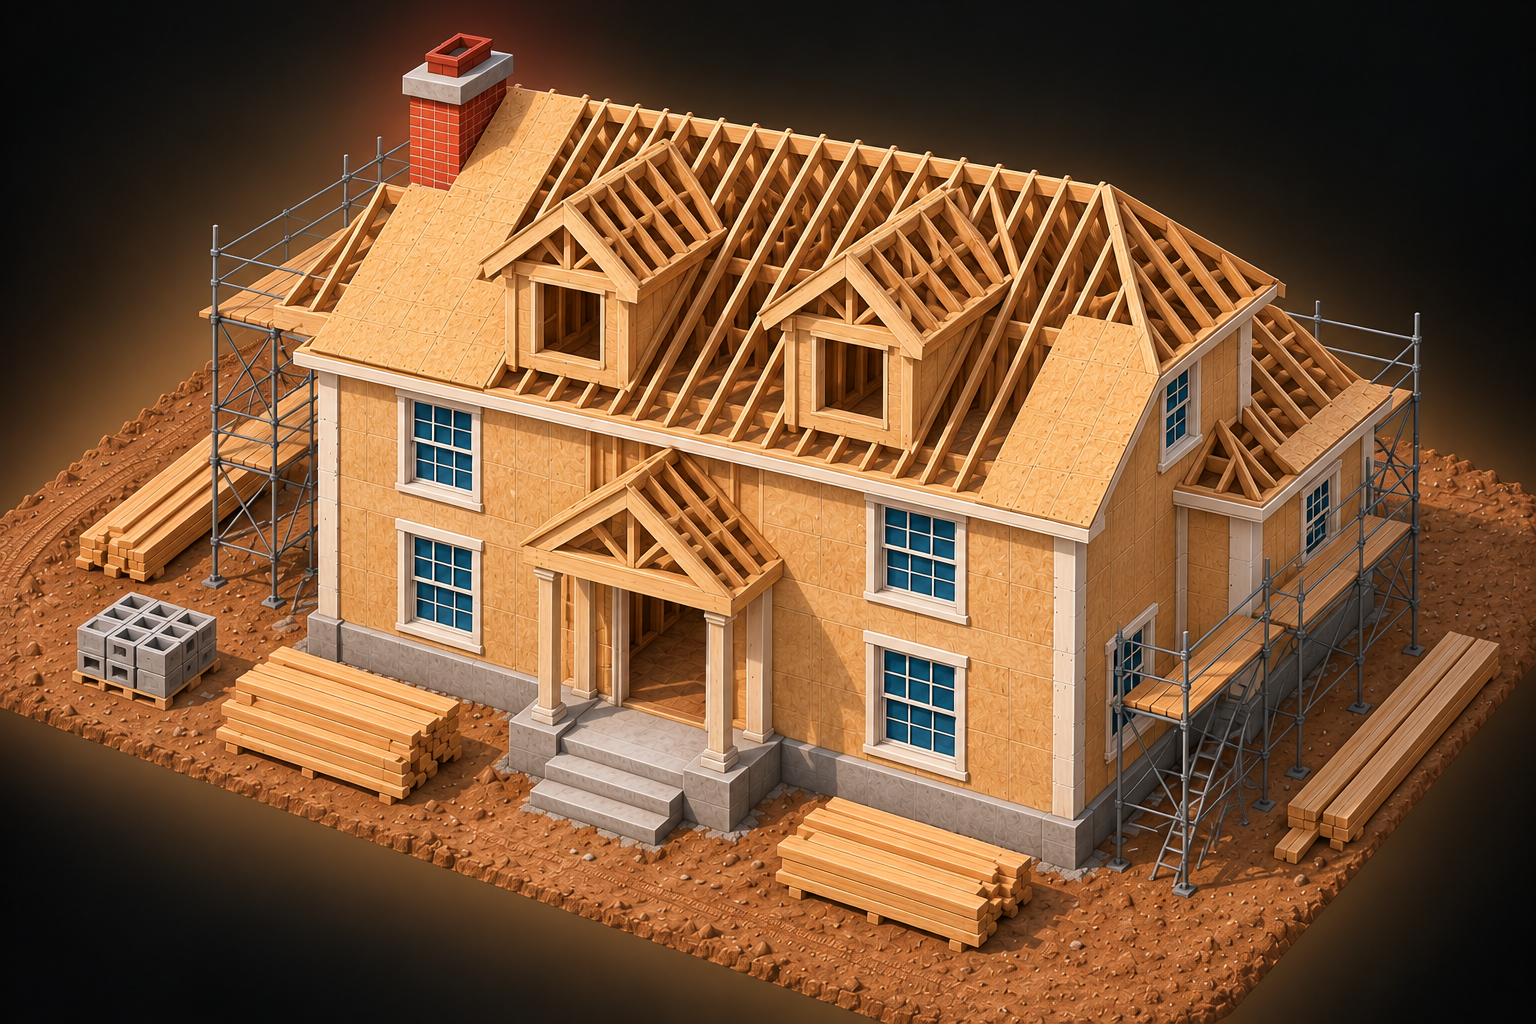
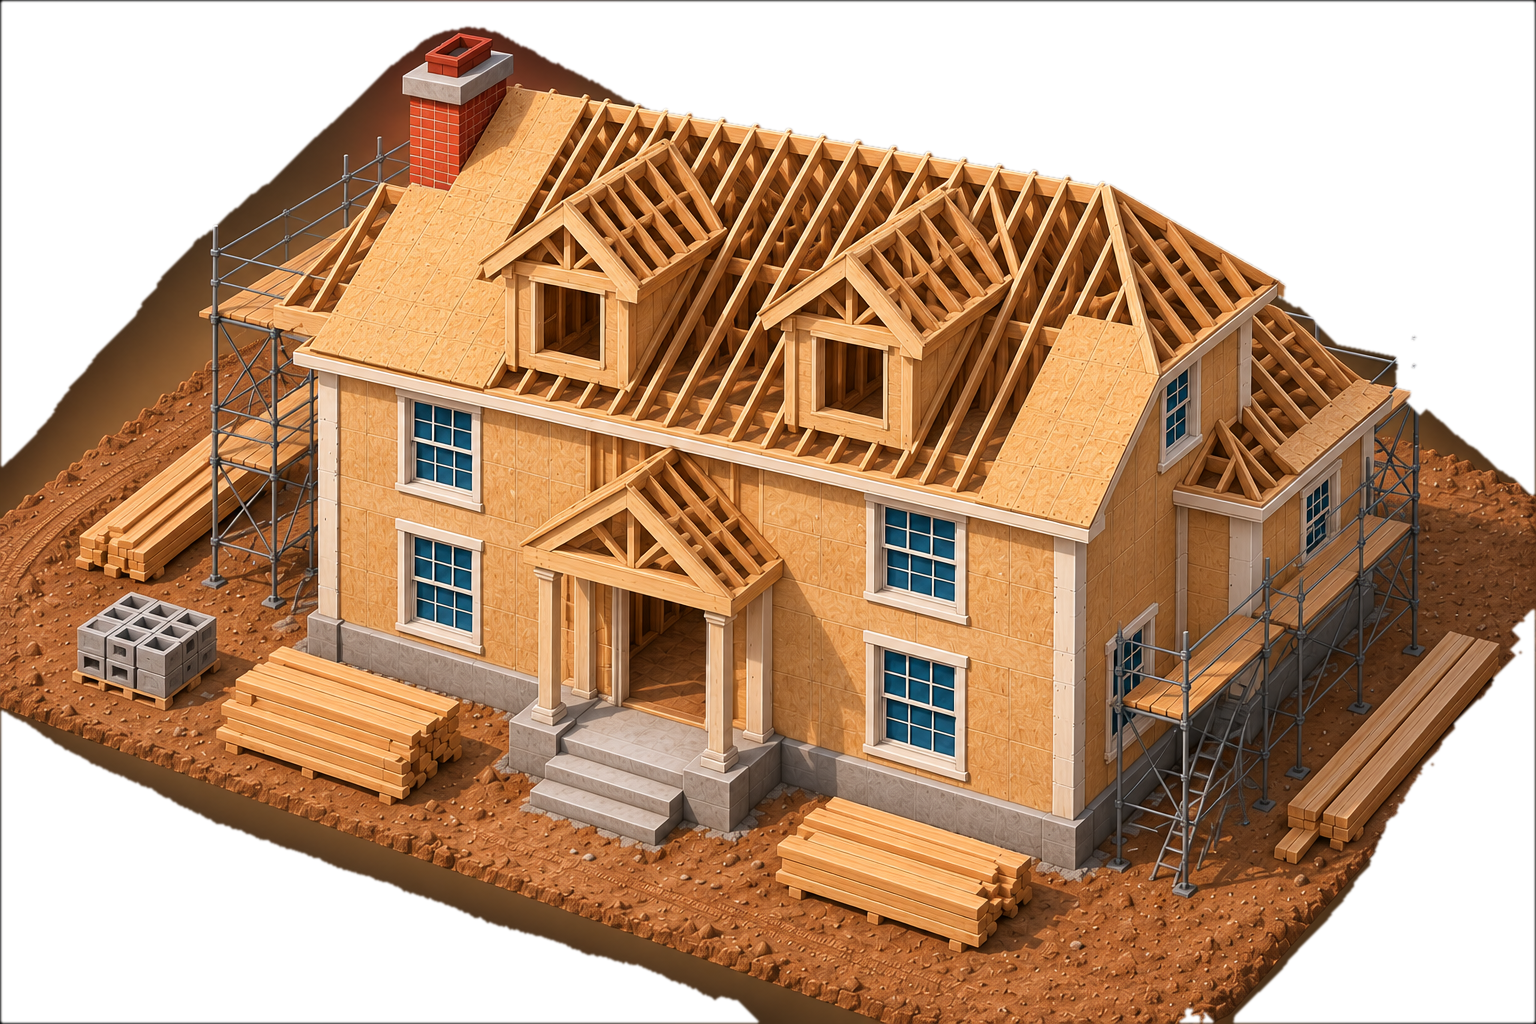
Tudor transparent bg, starting lots, paint for colonial/tudor, restart level

diff --git a/src/game/BuildingArt.tsx b/src/game/BuildingArt.tsx
@@ -13,6 +13,8 @@ import tudorPhase2 from '../../tudor 2.png'
 import tudorPhase3 from '../../tudor 3.png'
 import tudorPhase4 from '../../tudor 4.png'
 import ramblerWallMask from './rambler-walls-mask.png'
+import colonialWallMask from './colonial-walls-mask.png'
+import tudorWallMask from './tudor-walls-mask.png'
 import { MAX_UPGRADE, PAINT_COLORS } from './data'
 import type { BuildingType, PaintColor } from './types'
 
@@ -23,6 +25,12 @@ const tudorPhases = [tudorPhase1, tudorPhase2, tudorPhase3, tudorPhase4]
 // Vertical extent (% of the rambler image) of the wall mask, used to band the paint reveal
 const RAMBLER_WALL_TOP = 49.6
 const RAMBLER_WALL_BOTTOM = 92.2
+
+// Same idea for the other photo-style houses: wall mask plus its vertical extent (%)
+const photoWalls = {
+  colonial: { mask: colonialWallMask, top: 26, bottom: 83 },
+  tudor: { mask: tudorWallMask, top: 28, bottom: 88 },
+}
 
 // Approximate vertical extent (SVG y) of the exterior walls for each drawn building
 const wallExtent: Partial<Record<BuildingType, [number, number]>> = {
@@ -211,6 +219,18 @@ export default function BuildingArt({ type, progress = 1, level = 0, paintColor,
       <div className="building-art" aria-hidden="true">
         <div className="colonial-stage">
           <img src={colonialPhases[phase]} alt="" />
+          {phase === 3 && paint && <div className="rambler-paint" style={{ backgroundColor: paint.value, WebkitMaskImage: `url(${photoWalls.colonial.mask})`, maskImage: `url(${photoWalls.colonial.mask})` }} />}
+          {phase === 3 && newPaint && (
+            <div
+              className="rambler-paint"
+              style={{
+                backgroundColor: newPaint.value,
+                WebkitMaskImage: `url(${photoWalls.colonial.mask})`,
+                maskImage: `url(${photoWalls.colonial.mask})`,
+                clipPath: `inset(${photoWalls.colonial.bottom - bandFraction * (photoWalls.colonial.bottom - photoWalls.colonial.top)}% 0 0 0)`,
+              }}
+            />
+          )}
         </div>
         {level > 0 && <span className="upgrade-stars">{'★'.repeat(Math.min(MAX_UPGRADE, level))}</span>}
       </div>
@@ -223,6 +243,18 @@ export default function BuildingArt({ type, progress = 1, level = 0, paintColor,
       <div className="building-art" aria-hidden="true">
         <div className="colonial-stage">
           <img src={tudorPhases[phase]} alt="" />
+          {phase === 3 && paint && <div className="rambler-paint" style={{ backgroundColor: paint.value, WebkitMaskImage: `url(${photoWalls.tudor.mask})`, maskImage: `url(${photoWalls.tudor.mask})` }} />}
+          {phase === 3 && newPaint && (
+            <div
+              className="rambler-paint"
+              style={{
+                backgroundColor: newPaint.value,
+                WebkitMaskImage: `url(${photoWalls.tudor.mask})`,
+                maskImage: `url(${photoWalls.tudor.mask})`,
+                clipPath: `inset(${photoWalls.tudor.bottom - bandFraction * (photoWalls.tudor.bottom - photoWalls.tudor.top)}% 0 0 0)`,
+              }}
+            />
+          )}
         </div>
         {level > 0 && <span className="upgrade-stars">{'★'.repeat(Math.min(MAX_UPGRADE, level))}</span>}
       </div>

diff --git a/src/App.tsx b/src/App.tsx
@@ -3,7 +3,7 @@ import { BUILDINGS, BUILDING_ORDER, LANDSCAPE_TIME, LEVELS, LOT_COST, MATERIAL_D
 import BuildingArt from './game/BuildingArt'
 import LotArt from './game/LotArt'
 import { advanceDeliveries, build, builders, busyBuilders, buyLot, canBuild, demolish, goalProgress, hasSawmill, hasWorkshop, hireWorkers, houseValue, improvementCost, isOwned, landscape, maintain, maintenanceCost, newGame, nextLevel, orderMaterials, paintBuilding, paintStage, rentalIncome, sell, tick, upgrade, upgradeCost, workerHireCost } from './game/logic'
-import { clearSave, loadGame, saveGame } from './game/storage'
+import { loadGame, saveGame } from './game/storage'
 import type { BuildingType, GameState, PaintColor } from './game/types'
 
 type Tool = 'build' | 'demolish'
@@ -119,9 +119,10 @@ export default function App() {
     `${BUILDINGS[type].cost.toLocaleString()} materials`
 
   const reset = () => {
-    if (window.confirm('Start over? All progress will be lost.')) {
-      clearSave()
-      setGame(newGame())
+    if (window.confirm('Restart this level? Progress on this level will be lost.')) {
+      setGame(newGame(game.level))
+      setSelectedLot(null)
+      setSelectedBuilding(null)
     }
   }
 
@@ -130,7 +131,7 @@ export default function App() {
       <header>
         <h1>🏗 Build It</h1>
         <span>Level {game.level + 1}{game.level >= LEVELS.length ? ' (bonus)' : ''}</span>
-        <button onClick={reset}>Restart</button>
+        <button onClick={reset}>Restart level</button>
       </header>
 
       <div className="calendar" role="img" aria-label={`Month ${monthNumber}, day ${dayOfMonth} of ${DAYS_PER_MONTH}. Rent is paid at month end.`}>

diff --git a/src/index.css b/src/index.css
@@ -23,7 +23,7 @@ main { display: grid; gap: 10px; grid-template-columns: 1fr; }
 .rambler-art img { display: block; width: 100%; height: 100%; object-fit: contain; }
 .colonial-stage { position: absolute; inset: 0; display: grid; place-items: center; }
 .colonial-stage img { display: block; width: 100%; height: 100%; object-fit: contain; }
-.rambler-paint { position: absolute; inset: 0; mix-blend-mode: color; -webkit-mask-size: contain; mask-size: contain; -webkit-mask-position: center; mask-position: center; -webkit-mask-repeat: no-repeat; mask-repeat: no-repeat; }
+.rambler-paint { position: absolute; inset: 0; pointer-events: none; mix-blend-mode: color; -webkit-mask-size: contain; mask-size: contain; -webkit-mask-position: center; mask-position: center; -webkit-mask-repeat: no-repeat; mask-repeat: no-repeat; }
 .cell.building { background: linear-gradient(145deg,#ecd99e,#c3aa71); }
 .timer { position: absolute; right: 5px; bottom: 5px; border-radius: 999px; padding: 3px 7px; background: #344b32e8; color: #fff; font-size: .7rem; line-height: 1.2; box-shadow: 0 1px 3px #0004; }
 .cell-progress, .task-progress { display: block; height: 8px; overflow: hidden; border: 1px solid #668b48; border-radius: 999px; background: #e7f2bd; box-shadow: 0 1px 3px #344b2b55; }

diff --git a/src/game/logic.ts b/src/game/logic.ts
@@ -8,6 +8,13 @@ export const emptyCell = (lotOwned = false): Cell => ({ type: null, lotOwned, re
 /** a finished building the player still owns */
 export const isOwned = (c: Cell) => !!c.type && c.remaining === 0 && !c.sold
 
+/** A few lots are already owned at the start of every level, spread evenly over the board */
+const startingGrid = (cells: number): Cell[] => {
+  const owned = Math.max(1, Math.round(cells / 4))
+  const ownedIndexes = new Set(Array.from({ length: owned }, (_, k) => Math.floor((k + 0.5) * cells / owned)))
+  return Array.from({ length: cells }, (_, i) => emptyCell(ownedIndexes.has(i)))
+}
+
 export const newGame = (level = 0): GameState => ({
   version: 2,
   level,
@@ -16,7 +23,7 @@ export const newGame = (level = 0): GameState => ({
   sawmillBuilt: false,
   money: STARTING_MONEY,
   hiredWorkers: 2,
-  grid: Array.from({ length: levelDef(level).size ** 2 }, () => emptyCell()),
+  grid: startingGrid(levelDef(level).size ** 2),
   ticks: 0,
   won: false,
 })
